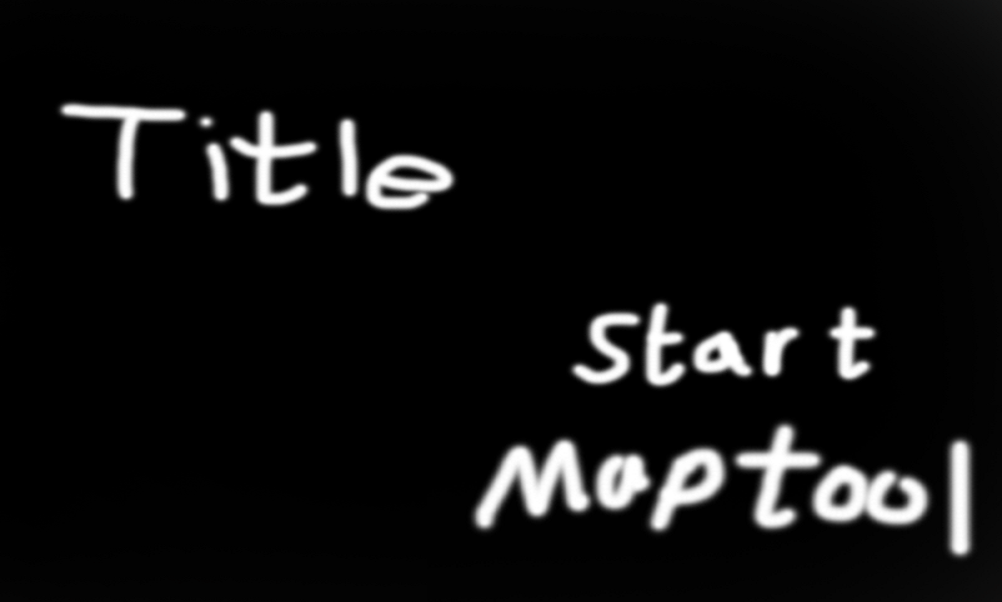
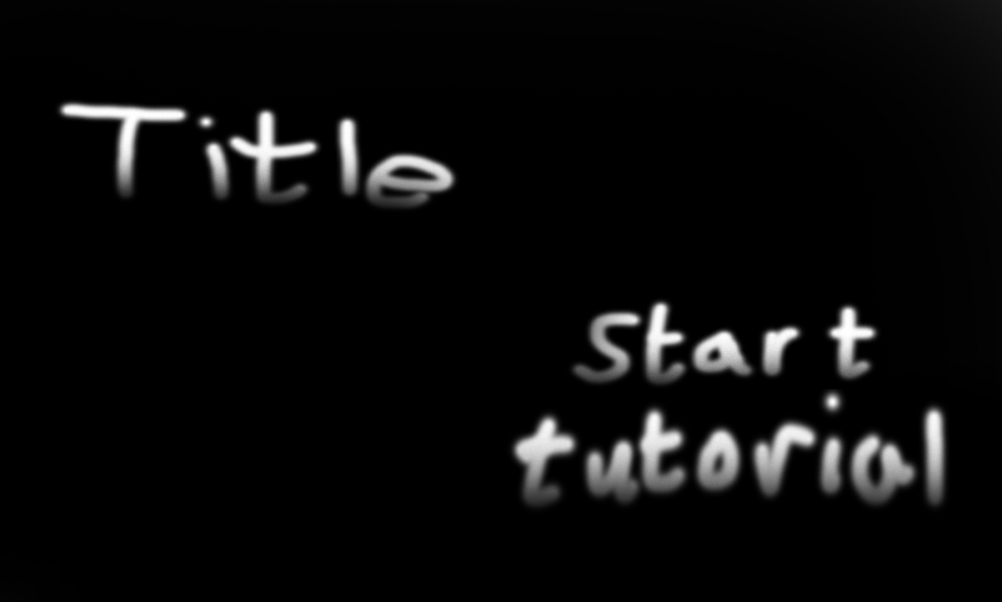
타이틀이미지 수정

diff --git a/2D게임/Monster.py b/2D게임/Monster.py
@@ -177,7 +177,7 @@ next_state_table = {
     Attacked_State: {FIRE_ATTACK: Fire_Attacked_State, ICE_ATTACK: Ice_Attacked_State,
                      ARROW_ATTACK: Attacked_State, IDLE: RunState, ATTACK: RunState},
     Attack_State: {FIRE_ATTACK: Fire_Attacked_State, ICE_ATTACK: Ice_Attacked_State,
-                     ARROW_ATTACK: Attacked_State, IDLE: RunState, ATTACK: Attack_State}
+                     ARROW_ATTACK: Attacked_State, IDLE: RunState, ATTACK: RunState}
 }
 
 

diff --git a/2D게임/boy.py b/2D게임/boy.py
@@ -29,7 +29,6 @@ ARROW_SPEED_PPS = (20 * PIXEL_PER_METER)
 # Boy States
 
 class IdleState:
-
     @staticmethod
     def enter(boy, event):
         boy.t = 0
